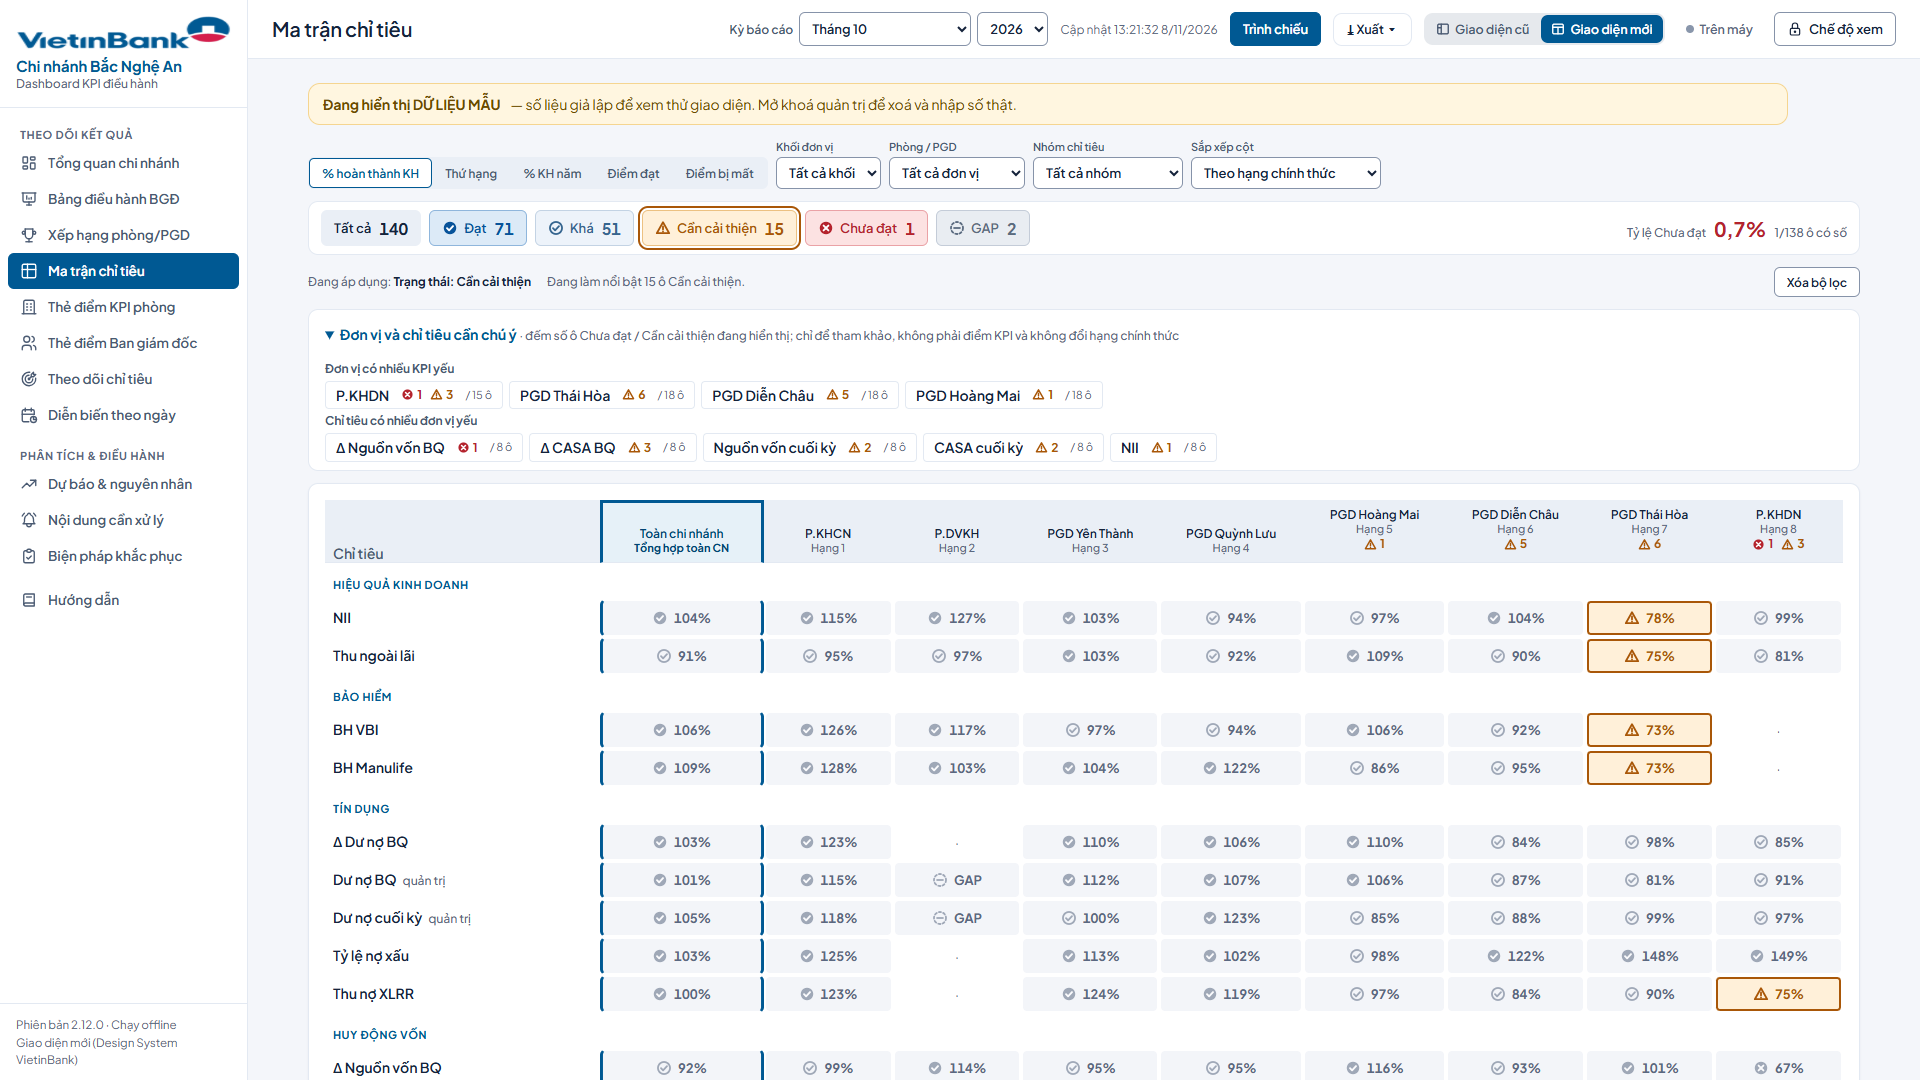
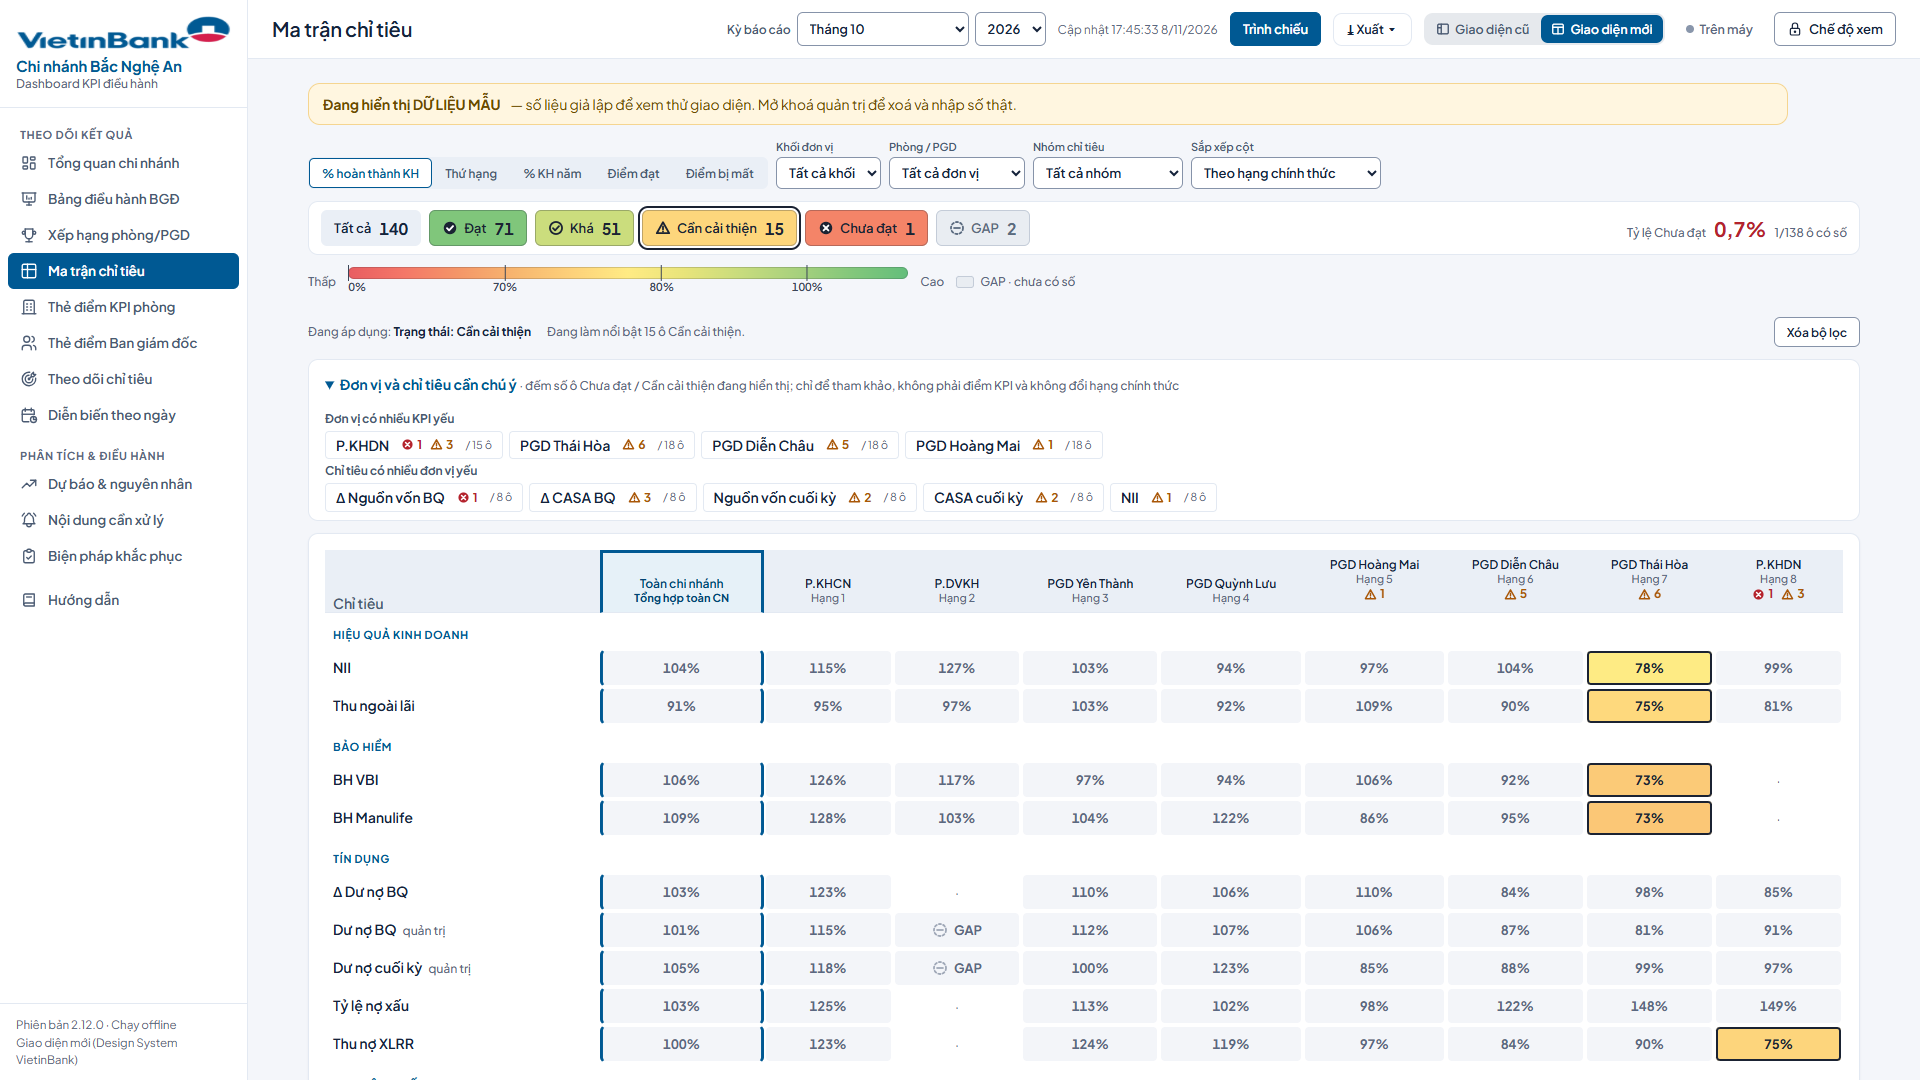
Ma trận chỉ tiêu: Heatmap liên tục đỏ-cam-vàng-xanh theo % hoàn thành (engine), chú giải liên tục, cập nhật test

diff --git a/App/ui-moi/moi-views2.js b/App/ui-moi/moi-views2.js
@@ -69,10 +69,10 @@
   var MX_STATUS_MODES = { ht: 1, kh_nam: 1, diem: 1 };   // chế độ mà màu/biểu tượng ô là MỨC TRẠNG THÁI KPI (có ý nghĩa để lọc theo trạng thái)
   function mxNote(mode, M) {
     var ng = M.ng;
-    return { ht: 'Số trong ô = % hoàn thành kế hoạch lũy kế; màu và biểu tượng = mức theo ngưỡng cấu hình.',
+    return { ht: 'Số trong ô = % hoàn thành kế hoạch lũy kế; màu Heatmap chuyển liên tục đỏ → xanh lá theo % hoàn thành, nằm đúng trong dải của mức Đạt/Khá/Cần cải thiện/Chưa đạt theo ngưỡng cấu hình. Ô xám = GAP.',
       hang: 'Số trong ô = hạng của đơn vị ở chỉ tiêu đó theo % hoàn thành (1 = cao nhất). Màu xanh càng đậm = hạng càng cao; đây không phải mức trạng thái.',
-      kh_nam: 'Số trong ô = thực hiện lũy kế ÷ kế hoạch cả năm. Màu và biểu tượng vẫn là mức hoàn thành KH lũy kế (hệ thống không có ngưỡng riêng cho % KH năm).',
-      diem: 'Số trong ô = điểm đạt / trọng số; màu và biểu tượng = mức hoàn thành KH lũy kế của chỉ tiêu.',
+      kh_nam: 'Số trong ô = thực hiện lũy kế ÷ kế hoạch cả năm. Màu Heatmap vẫn theo % hoàn thành KH lũy kế (hệ thống không có ngưỡng riêng cho % KH năm).',
+      diem: 'Số trong ô = điểm đạt / trọng số; màu Heatmap = % hoàn thành KH lũy kế của chỉ tiêu.',
       mat: 'Số trong ô = điểm bị mất (✓ = không mất điểm). Màu xanh càng đậm = mất càng nhiều so với ô mất nhiều nhất đang hiển thị; không phải mức trạng thái.' }[mode];
   }
   function mxTierTip(M) {
@@ -80,6 +80,31 @@
     return { dat: 'Đạt: hoàn thành từ ' + p(ng.dat) + ' kế hoạch lũy kế trở lên.', kha: 'Khá: từ ' + p(ng.kha) + ' đến dưới ' + p(ng.dat) + ' kế hoạch.',
       cct: 'Cần cải thiện: từ ' + p(ng.cct) + ' đến dưới ' + p(ng.kha) + ' kế hoạch.', chua: 'Chưa đạt: dưới ' + p(ng.cct) + ' kế hoạch.',
       gap: 'GAP: thiếu số thực hiện hoặc kế hoạch, hoặc thiếu cấu hình nên chưa xếp được mức. Khác với ô “·” (đơn vị không có chỉ tiêu này).' };
+  }
+  /* ---- Heatmap liên tục: màu CHỈ để hiển thị, suy ra từ % hoàn thành (r.ht, engine đã tính, đã xử lý chiều "thấp là tốt") ----
+   * Mức (đạt/khá/cct/chưa) vẫn do engine quyết định; màu luôn nằm trong dải của mức đó nên không bao giờ mâu thuẫn với bộ lọc/bộ đếm.
+   * Mốc nội suy trong từng mức lấy từ ngưỡng cấu hình M.ng; không tạo ngưỡng mới. */
+  var MX_RAMP = ['#E85D61', '#F47768', '#F49768', '#F7B66F', '#FDD17A', '#FFEB84', '#E8E47A', '#C8DC7D', '#A8D17D', '#83C77B', '#63BE7B'];
+  var MX_BAND = { chua: [0, 0.28], cct: [0.28, 0.56], kha: [0.56, 0.82], dat: [0.82, 1] };
+  var MX_INK = '#1B2333';
+  function rampAt(p) {
+    p = Math.max(0, Math.min(1, p)); var f = p * (MX_RAMP.length - 1), i = Math.min(MX_RAMP.length - 2, Math.floor(f)), k = f - i, a = MX_RAMP[i], b = MX_RAMP[i + 1], o = '#';
+    for (var j = 1; j < 7; j += 2) { var x = parseInt(a.substr(j, 2), 16), y = parseInt(b.substr(j, 2), 16), v = Math.round(x + (y - x) * k); o += (v < 16 ? '0' : '') + v.toString(16); }
+    return o;
+  }
+  function heatPos(ht, t, ng) {
+    var B = MX_BAND[t]; if (!B) return null; if (!isNum(ht)) return (B[0] + B[1]) / 2;
+    var lo = t === 'chua' ? 0 : t === 'cct' ? ng.cct : t === 'kha' ? ng.kha : ng.dat, hi = t === 'chua' ? ng.cct : t === 'cct' ? ng.kha : t === 'kha' ? ng.dat : ng.dat * 1.2, u = hi > lo ? (ht - lo) / (hi - lo) : 1;
+    return B[0] + (B[1] - B[0]) * Math.max(0, Math.min(1, u));
+  }
+  function heatColor(ht, t, ng) { var p = heatPos(ht, t, ng); return p === null ? null : rampAt(p); }
+  function heatLegend(M) {
+    var ng = M.ng, pc = function (v) { return pct(v, 0); }, stops = MX_RAMP.map(function (c, i) { return c + ' ' + (i * 10) + '%'; }).join(','),
+      tk = function (p, lab) { return '<span class="moi-hm-tk" style="left:' + (p * 100) + '%"><i></i><b>' + lab + '</b></span>'; };
+    return '<div class="moi-hm" aria-label="Thang màu Heatmap theo % hoàn thành kế hoạch lũy kế" data-tip="Màu chuyển liên tục từ đỏ (chưa đạt) đến xanh lá (đạt) theo % hoàn thành KH. Chỉ tiêu có chiều “thấp là tốt” (như nợ xấu) đã được hệ thống quy về cùng % hoàn thành nên dùng chung thang. Các mốc lấy từ ngưỡng cấu hình.">' +
+      '<span class="vtb-caption moi-hm-l">Thấp</span><div class="moi-hm-bar"><div class="moi-hm-grad" style="background:linear-gradient(90deg,' + stops + ')"></div>' +
+      tk(0, '0%') + tk(MX_BAND.cct[0], pc(ng.cct)) + tk(MX_BAND.kha[0], pc(ng.kha)) + tk(MX_BAND.dat[0], pc(ng.dat)) + '</div><span class="vtb-caption moi-hm-l">Cao</span>' +
+      '<span class="moi-hm-gap"><i></i><span class="vtb-caption">GAP · chưa có số</span></span></div>';
   }
   function mxState(A) { return { tier: V.TIERS.indexOf(A.mt_tier) >= 0 ? A.mt_tier : 'all', khoi: A.mt_khoi || '', dv: A.mt_dv || '', nhom: A.mt_nhom || '', sort: A.mt_sort === 'yeu' ? 'yeu' : 'hang' }; }
   function weakBadges(p) {
@@ -102,8 +127,9 @@
     var stNote = t === 'gap' ? (r.tt || 'GAP') : V.LABEL_LONG[t];
     var tip = c.ten_ngan + ' · ' + (ind.ten_ngan || ind.ten) + ' · KH ' + H.fmtV(r.kh, ind) + ' · TH ' + H.fmtV(r.th, ind) + ' · ' + (isNum(r.ht) ? pct(r.ht, 1) : 'chưa có số') + ' · ' + stNote;
     aria = (ind.ten_ngan || ind.ten) + ', ' + c.ten_ngan + ': ' + txt + ', ' + stNote + '. Mở thẻ điểm đơn vị';
-    var icon = (mode === 'hang' || mode === 'mat') ? '' : V.svgIcon(t);
-    return '<td class="vtb-cell ' + cls + '" data-tier="' + t + '" data-dv="' + esc(c.ma) + '" data-tip="' + esc(tip) + '"><span class="vtb-cb" role="button" tabindex="-1" data-dv="' + esc(c.ma) + '" aria-label="' + esc(aria) + '">' + icon + '<span class="vtb-cv">' + esc(txt) + '</span></span></td>';
+    var hm = MX_STATUS_MODES[mode] ? heatColor(r.ht, t, M.ng) : null, icon = (mode === 'hang' || mode === 'mat' || hm) ? '' : V.svgIcon(t);
+    if (hm) cls += ' vtb-hm';
+    return '<td class="vtb-cell ' + cls + '"' + (hm ? ' style="--hm:' + hm + '"' : '') + ' data-tier="' + t + '" data-dv="' + esc(c.ma) + '" data-tip="' + esc(tip) + '"><span class="vtb-cb" role="button" tabindex="-1" data-dv="' + esc(c.ma) + '" aria-label="' + esc(aria) + '">' + icon + '<span class="vtb-cv">' + esc(txt) + '</span></span></td>';
   }
 
   VIEWS['ma-tran'] = {
@@ -127,12 +153,14 @@
       /* --- dải đếm trạng thái (cũng là bộ lọc nhanh) --- */
       var chips = ['all'].concat(V.TIERS).map(function (t) {
         var n = t === 'all' ? X.total : X.counts[t], lab = t === 'all' ? 'Tất cả' : V.LABEL[t], inner = (t === 'all' ? '' : V.svgIcon(t)) + '<span>' + lab + '</span><b>' + n + '</b>', cl = 'vtb-mxf' + (t === 'all' ? '' : ' vtb-t-' + t);
-        return tierMode ? '<button type="button" class="' + cl + '" data-mxf="' + t + '" aria-pressed="' + (active === t) + '" data-tip="' + esc(t === 'all' ? 'Hiện toàn bộ ô, không làm mờ' : tip[t]) + '" data-n="' + n + '">' + inner + '</button>'
+        var hs = ''; if (tierMode && MX_BAND[t]) { cl += ' vtb-hm'; hs = ' style="--hm:' + rampAt((MX_BAND[t][0] + MX_BAND[t][1]) / 2) + '"'; }
+        return tierMode ? '<button type="button" class="' + cl + '"' + hs + ' data-mxf="' + t + '" aria-pressed="' + (active === t) + '" data-tip="' + esc(t === 'all' ? 'Hiện toàn bộ ô, không làm mờ' : tip[t]) + '" data-n="' + n + '">' + inner + '</button>'
           : '<span class="' + cl + ' is-static" data-tip="' + esc(t === 'all' ? 'Tổng số ô có trạng thái' : tip[t]) + '">' + inner + '</span>';
       }).join('');
       var tyle = X.tyLeChua === null ? '–' : pct(X.tyLeChua, 1);
       var strip = '<div class="moi-mx-strip"><div class="moi-mx-chips" role="group" aria-label="' + (tierMode ? 'Lọc nhanh theo trạng thái KPI' : 'Số ô theo trạng thái KPI') + '">' + chips + '</div>' +
         '<div class="moi-mx-rate" data-tip="Chưa đạt ÷ (Đạt + Khá + Cần cải thiện + Chưa đạt). Không tính ô GAP và ô không áp dụng."><span class="vtb-caption">Tỷ lệ Chưa đạt</span><b>' + tyle + '</b><span class="vtb-caption">' + X.counts.chua + '/' + X.danhGia + ' ô có số</span></div></div>';
+      if (tierMode) strip += heatLegend(M);
       var live = '<p class="vtb-caption moi-mx-hint" id="mx-live" role="status" aria-live="polite">' + (tierMode ? (active === 'all' ? 'Chọn một trạng thái để làm nổi bật các ô tương ứng; các ô khác được làm mờ, vị trí và thứ hạng giữ nguyên.' : 'Đang làm nổi bật ' + X.counts[active] + ' ô ' + V.LABEL[active] + '.') : 'Chế độ này không phân loại theo trạng thái KPI nên không có bộ lọc trạng thái. Các số đếm bên trên là mức hoàn thành KH lũy kế.') + '</p>';
       /* --- phát hiện đơn vị / chỉ tiêu yếu (đếm thuần, không phải điểm KPI) --- */
       var li = function (x, attr, aria) { return '<li class="vtb-att-i is-link" ' + attr + '="' + esc(x.ma) + '" role="button" tabindex="0" aria-label="' + esc(aria(x)) + '"><span class="vtb-mx-nm">' + esc(x.ten) + '</span>' + weakBadges(x) + '<small>/ ' + x.n + ' ô</small></li>'; };
@@ -157,7 +185,7 @@
         tb += '</tr>';
       });
       if (!hien) return '<div class="moi-toolbar">' + pills + '</div><div class="moi-card moi-empty"><h2>Không có chỉ tiêu phù hợp</h2><p>Điều kiện lọc hiện tại không còn ô nào. Bấm “Xóa bộ lọc” để quay về tất cả.</p>' + clear + '</div>';
-      var foot = '<tr><th scope="row" class="vtb-sticky">Điểm quy đổi <small>(toàn bộ chỉ tiêu)</small></th>' + cols.map(function (c) { var t = D.tierHt(M, c.ht_chung); var tm = mode === 'ht' || mode === 'kh_nam' || mode === 'diem'; return '<td class="vtb-cell vtb-ft' + (c.ma === CN ? ' vtb-mx-cn' : '') + (tm ? ' vtb-t-' + t : ' vtb-rk-0') + '"' + (tm ? ' data-tier="' + t + '" data-tip="' + esc(c.ten_ngan + ' · điểm quy đổi toàn bộ chỉ tiêu · ' + V.LABEL_LONG[t]) + '"' : '') + '><span class="vtb-cv">' + (tm ? V.svgIcon(t) + ' ' : '') + '<b>' + num(c.quy_doi, 1) + '</b></span></td>'; }).join('') + '</tr>';
+      var foot = '<tr><th scope="row" class="vtb-sticky">Điểm quy đổi <small>(toàn bộ chỉ tiêu)</small></th>' + cols.map(function (c) { var t = D.tierHt(M, c.ht_chung); var tm = mode === 'ht' || mode === 'kh_nam' || mode === 'diem'; return '<td class="vtb-cell vtb-ft' + (c.ma === CN ? ' vtb-mx-cn' : '') + (tm ? ' vtb-t-' + t : ' vtb-rk-0') + (tm && heatColor(c.ht_chung, t, M.ng) ? ' vtb-hm' : '') + '"' + (tm && heatColor(c.ht_chung, t, M.ng) ? ' style="--hm:' + heatColor(c.ht_chung, t, M.ng) + '"' : '') + (tm ? ' data-tier="' + t + '" data-tip="' + esc(c.ten_ngan + ' · điểm quy đổi toàn bộ chỉ tiêu · ' + V.LABEL_LONG[t]) + '"' : '') + '><span class="vtb-cv">' + (tm ? V.svgIcon(t) + ' ' : '') + '<b>' + num(c.quy_doi, 1) + '</b></span></td>'; }).join('') + '</tr>';
       if (mode === 'mat') foot += '<tr><th scope="row" class="vtb-sticky">Tổng điểm mất <small>(các ô đang hiển thị)</small></th>' + cols.map(function (c) {
         var s = 0, has = false; X.inds.forEach(function (ind) { var x = X.cells[ind.ma + '|' + c.ma]; if (x && isNum(x.r.mat)) { s += x.r.mat; has = true; } });
         return '<td class="vtb-cell vtb-ft vtb-rk-0' + (c.ma === CN ? ' vtb-mx-cn' : '') + '"><span class="vtb-cv"><b>' + (has ? (s > 0.005 ? '−' + num(s, 1) : '✓') : '–') + '</b></span></td>'; }).join('') + '</tr>';

diff --git a/App/ui-moi/moi-matrix.css b/App/ui-moi/moi-matrix.css
@@ -118,3 +118,23 @@
 .moi-stage .moi-mx-hint { display: none; }
 #mx-sort { max-width: 200px; }
 .moi-mx .vtb-ft .vtb-cv { gap: 6px; } .moi-mx .vtb-ft .vtb-ic { width: 16px; height: 16px; opacity: 1 !important; }
+
+/* ===== Continuous Heatmap (chế độ % hoàn thành KH, % KH năm, Điểm đạt) — màu liên tục đỏ → cam → vàng → xanh lá; --hm đặt từng ô ===== */
+.moi-mx .vtb-matrix td.vtb-cell.vtb-hm, .moi-mx .vtb-matrix tfoot .vtb-cell.vtb-hm { background: var(--hm); color: #1b2333; box-shadow: inset 0 0 0 1px rgba(255, 255, 255, .85); }
+.moi-mx .vtb-matrix td.vtb-cell.vtb-hm .vtb-cv { font-weight: 700; }
+.moi-mx .vtb-matrix td.vtb-cell.vtb-hm:not(.vtb-ft):hover .vtb-cb { box-shadow: inset 0 0 0 2px #1b2333; }
+.moi-mx .vtb-mxf.vtb-hm { background: var(--hm); color: #1b2333; border-color: rgba(27, 35, 51, .28); }
+.moi-mx .vtb-mxf.vtb-hm b { color: #1b2333; }
+.moi-hm { display: flex; align-items: center; gap: var(--space-3, 12px); margin: 0 0 var(--space-2, 8px); flex-wrap: wrap; }
+.moi-hm-bar { position: relative; flex: 1 1 320px; max-width: 560px; height: 30px; min-width: 220px; }
+.moi-hm-grad { height: 12px; border-radius: 6px; box-shadow: inset 0 0 0 1px rgba(27, 35, 51, .18); }
+.moi-hm-tk { position: absolute; top: 0; transform: translateX(-50%); display: flex; flex-direction: column; align-items: center; font-size: 11px; color: #3b4658; font-variant-numeric: tabular-nums; }
+.moi-hm-tk i { width: 1px; height: 16px; background: #3b4658; margin-top: -2px; } .moi-hm-tk b { font-weight: 600; line-height: 1.1; }
+.moi-hm-tk:first-of-type { transform: none; align-items: flex-start; }
+.moi-hm-gap { display: inline-flex; align-items: center; gap: 6px; } .moi-hm-gap i { width: 18px; height: 12px; border-radius: 3px; background: var(--mx-gap-bg); box-shadow: inset 0 0 0 1px var(--mx-gap-ln); }
+.moi-stage .moi-hm { margin: 0 0 4px; } .moi-stage .moi-hm-bar { height: 28px; } .moi-stage .moi-hm-tk { font-size: 13px; }
+@media print { .moi-hm-grad { -webkit-print-color-adjust: exact; print-color-adjust: exact; } }
+.moi-stage .moi-hm { margin: 0; gap: 10px; } .moi-stage .moi-hm-bar { height: 24px; max-width: 460px; flex-basis: 260px; } .moi-stage .moi-hm-grad { height: 10px; } .moi-stage .moi-hm-tk i { height: 10px; } .moi-stage .moi-hm-tk { font-size: 12px; }
+.moi-stage .moi-mx .vtb-matrix td { height: 24px; } .moi-stage .moi-mx .vtb-cb { min-height: 23px; }
+.moi-stage .moi-mx .vtb-matrix td { height: 22px; } .moi-stage .moi-mx .vtb-cb { min-height: 21px; } .moi-stage .moi-mx .vtb-matrix { font-size: 15px; } .moi-stage .moi-mx .vtb-cell { font-size: 15px; }
+.moi-stage .moi-hm-gap { display: none; }
